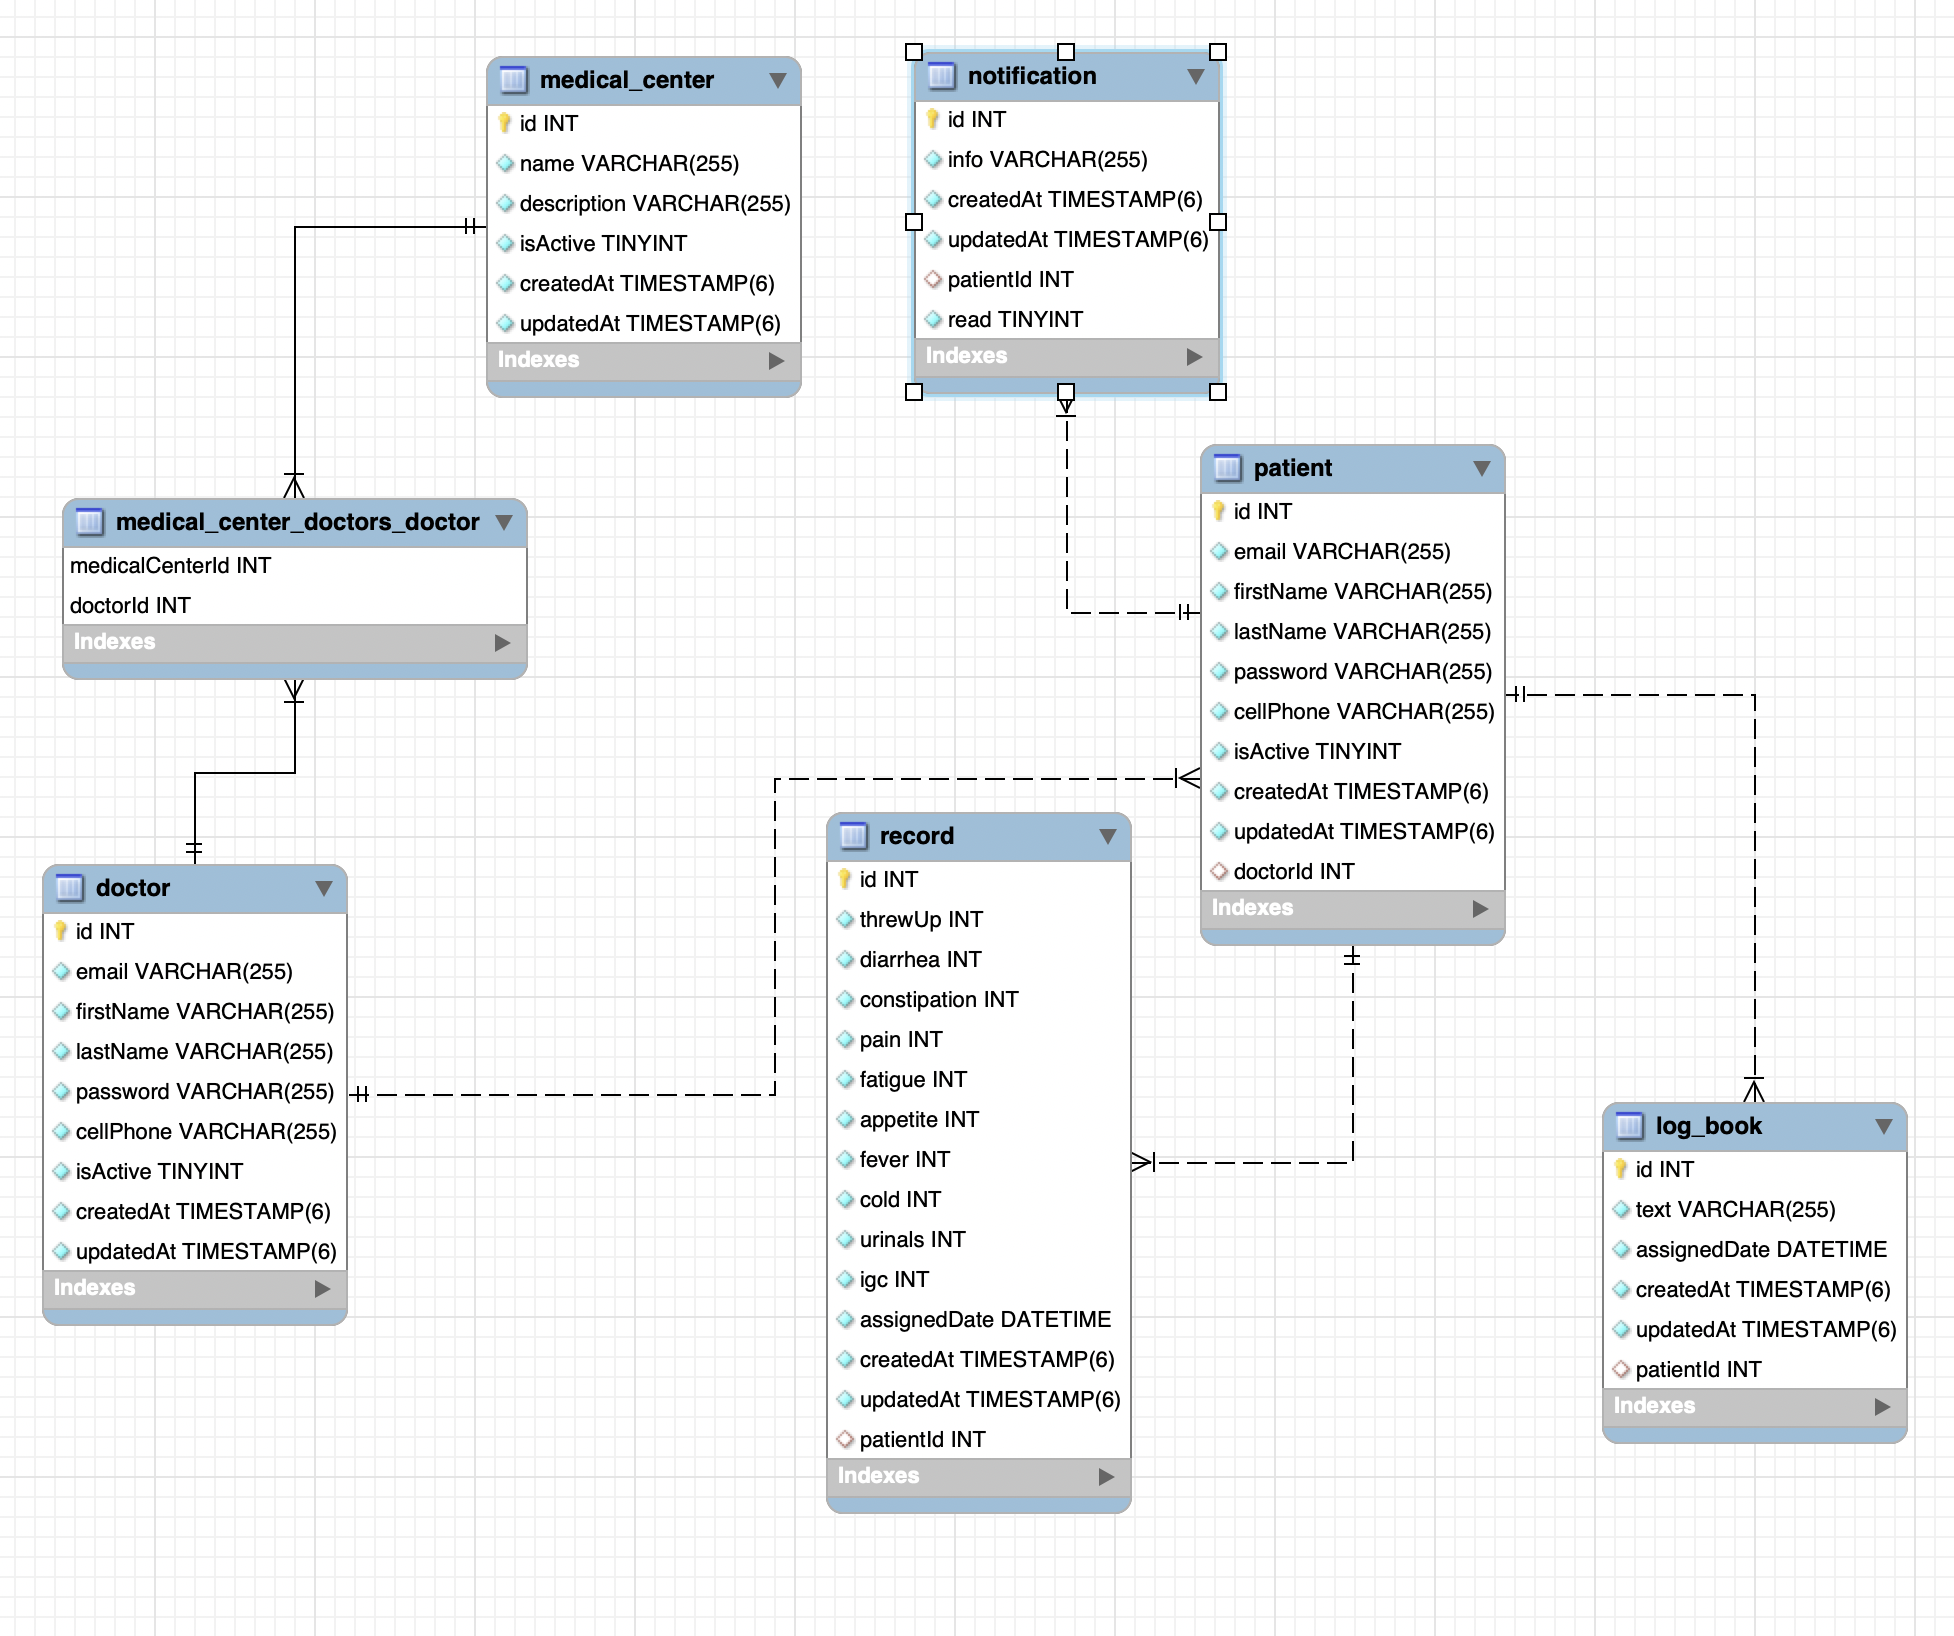
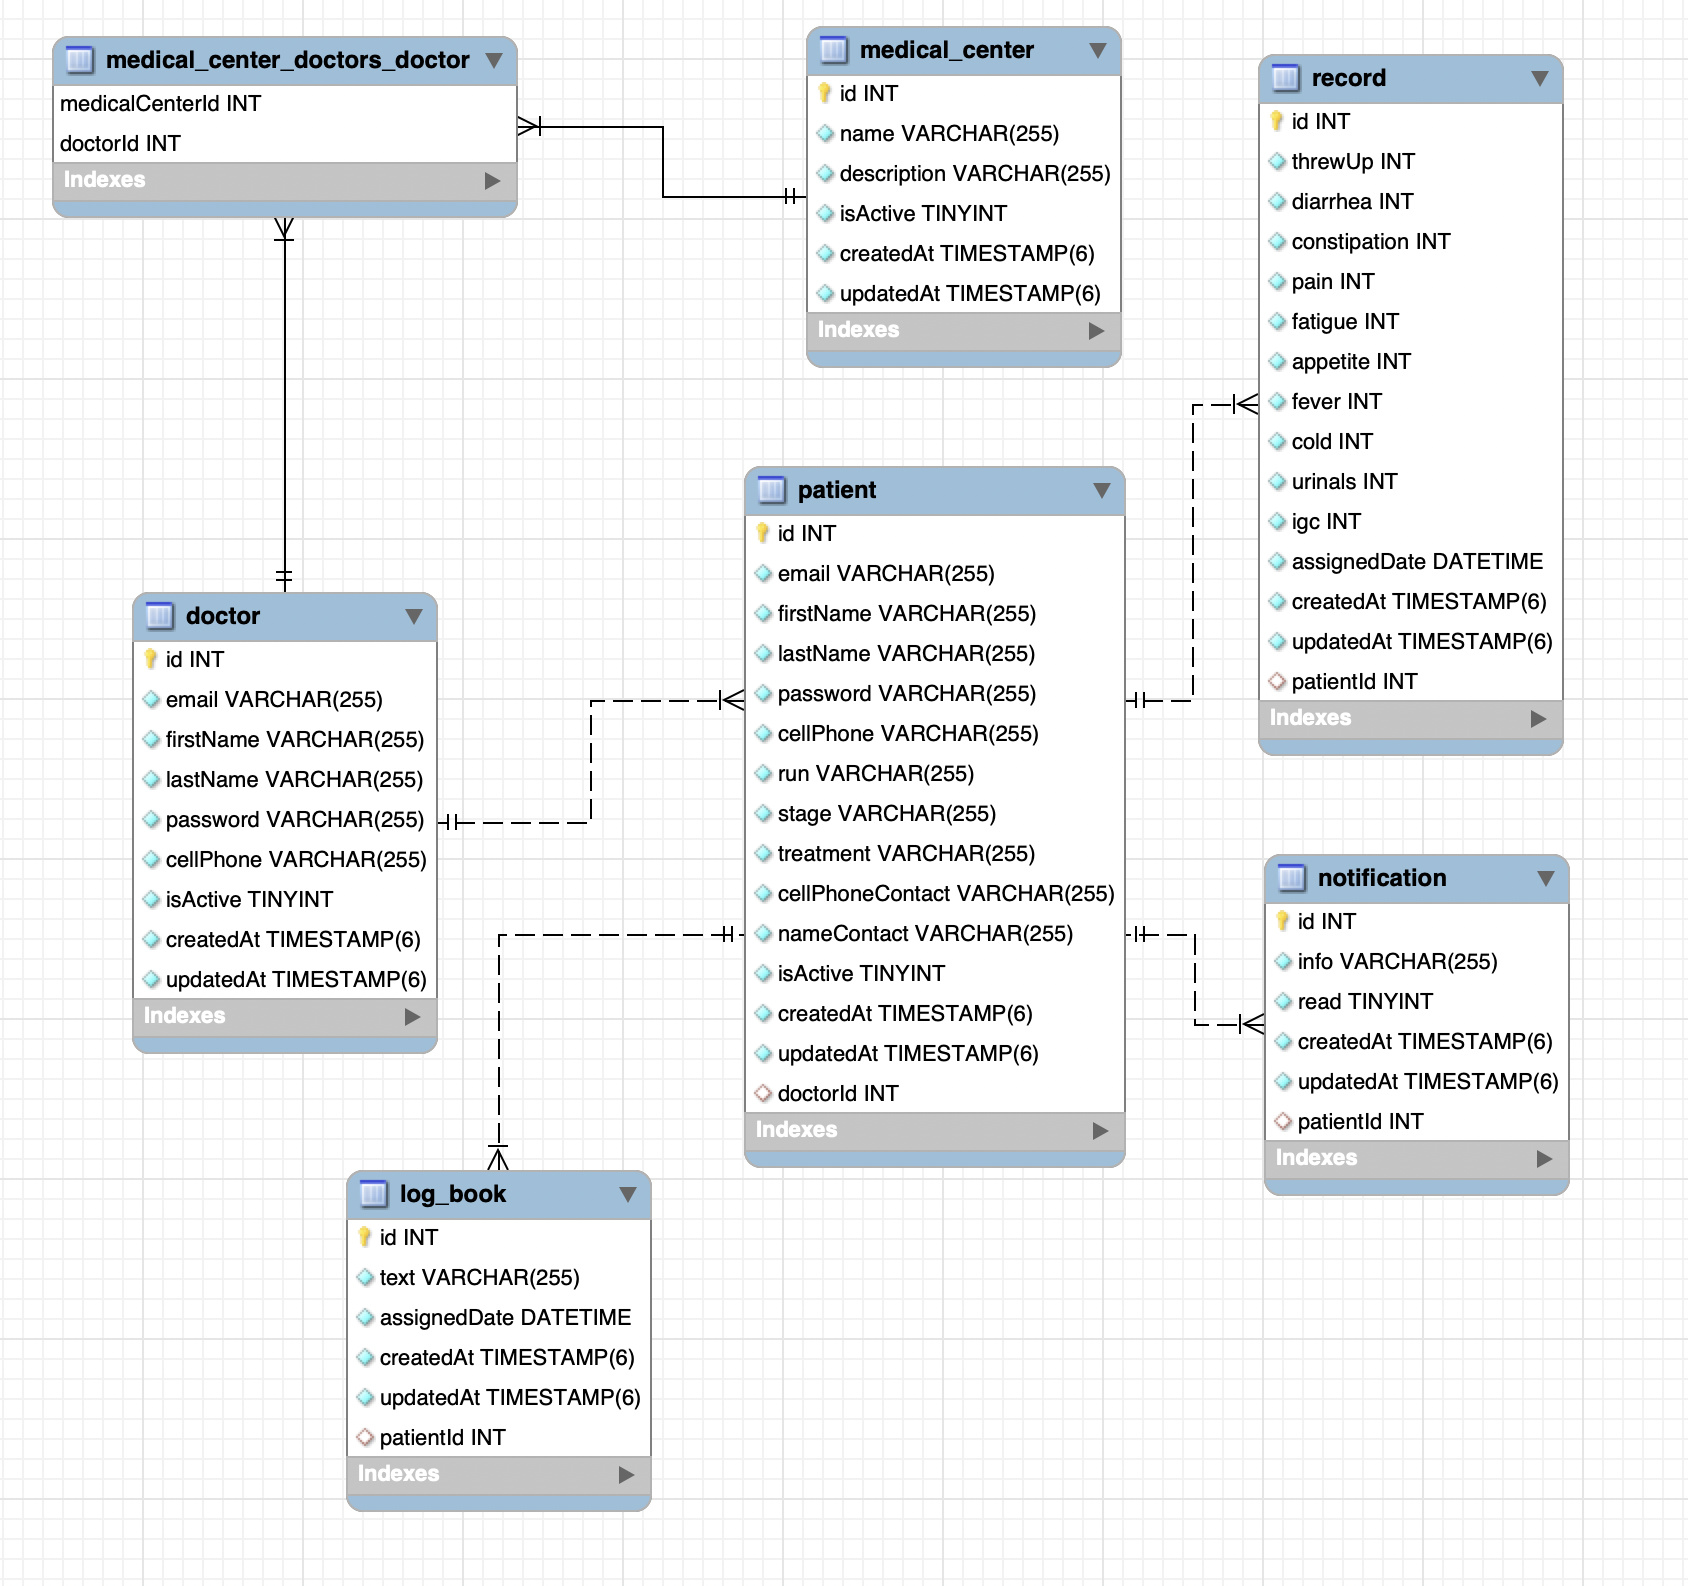
update model patient

diff --git a/src/patients/patient.dto.ts b/src/patients/patient.dto.ts
@@ -21,6 +21,21 @@ export class CreateUpdatePatientDto {
   password: string;
 
   @ApiProperty()
+  run: string;
+
+  @ApiProperty()
+  stage: string;
+
+  @ApiProperty()
+  treatment: string;
+
+  @ApiProperty()
+  cellPhoneContact: string;
+
+  @ApiProperty()
+  nameContact: string;
+
+  @ApiProperty()
   doctorId: number;
 }
 
@@ -40,6 +55,21 @@ export class CreateUpdatePatientAuthDto {
   @ApiProperty()
   password: string;
 
+  @ApiProperty()
+  run: string;
+
+  @ApiProperty()
+  stage: string;
+
+  @ApiProperty()
+  treatment: string;
+
+  @ApiProperty()
+  cellPhoneContact: string;
+
+  @ApiProperty()
+  nameContact: string;
+
   doctorId: number;
 }
 
@@ -58,6 +88,21 @@ export class PatientIncludeLogBookDto {
 
   @ApiProperty()
   password: string;
+
+  @ApiProperty()
+  run: string;
+
+  @ApiProperty()
+  stage: string;
+
+  @ApiProperty()
+  treatment: string;
+
+  @ApiProperty()
+  cellPhoneContact: string;
+
+  @ApiProperty()
+  nameContact: string;
 
   @ApiProperty({ type: [CreateUpdateLogBookDto] })
   logBooks: CreateUpdateLogBookDto[];
@@ -79,6 +124,21 @@ export class PatientIncludeDoctorDto {
   @ApiProperty()
   password: string;
 
+  @ApiProperty()
+  run: string;
+
+  @ApiProperty()
+  stage: string;
+
+  @ApiProperty()
+  treatment: string;
+
+  @ApiProperty()
+  cellPhoneContact: string;
+
+  @ApiProperty()
+  nameContact: string;
+
   @ApiProperty({ type: CreateUpdateDoctorDto })
   doctor: CreateUpdateDoctorDto;
 }
@@ -99,6 +159,21 @@ export class PatientIncludeRecordDto {
   @ApiProperty()
   password: string;
 
+  @ApiProperty()
+  run: string;
+
+  @ApiProperty()
+  stage: string;
+
+  @ApiProperty()
+  treatment: string;
+
+  @ApiProperty()
+  cellPhoneContact: string;
+
+  @ApiProperty()
+  nameContact: string;
+
   @ApiProperty({ type: [CreateUpdateRecordDto] })
   records: CreateUpdateRecordDto[];
 }
@@ -118,6 +193,21 @@ export class PatientIncludeNotificationDto {
 
   @ApiProperty()
   password: string;
+
+  @ApiProperty()
+  run: string;
+
+  @ApiProperty()
+  stage: string;
+
+  @ApiProperty()
+  treatment: string;
+
+  @ApiProperty()
+  cellPhoneContact: string;
+
+  @ApiProperty()
+  nameContact: string;
 
   @ApiProperty({ type: [CreateUpdateNotificationDto] })
   notifications: CreateUpdateNotificationDto[];

diff --git a/src/patients/patients.service.ts b/src/patients/patients.service.ts
@@ -1,4 +1,9 @@
-import { Injectable } from '@nestjs/common';
+import {
+  Injectable,
+  HttpException,
+  HttpStatus,
+  InternalServerErrorException,
+} from '@nestjs/common';
 import { InjectRepository } from '@nestjs/typeorm';
 import { Repository } from 'typeorm';
 import { Patient } from './patient.entity';
@@ -72,9 +77,22 @@ export class PatientsService {
   async create(
     patientData: CreateUpdatePatientDto,
   ): Promise<CreateUpdatePatientDto> {
-    const userHash = { ...patientData };
-    userHash.password = bcrypt.hashSync(userHash.password, this.saltRounds);
-    return this.patientRepository.save(userHash);
+    try {
+      const userHash = { ...patientData };
+      userHash.password = bcrypt.hashSync(userHash.password, this.saltRounds);
+      return this.patientRepository.save(userHash);
+    } catch (error) {
+      if (error.code === 'ER_DUP_ENTRY') {
+        throw new HttpException(
+          {
+            statusCode: HttpStatus.BAD_REQUEST,
+            message: error.code,
+          },
+          HttpStatus.BAD_REQUEST,
+        );
+      }
+      throw new InternalServerErrorException();
+    }
   }
 
   async update(

diff --git a/src/doctors/doctors.service.ts b/src/doctors/doctors.service.ts
@@ -1,4 +1,9 @@
-import { Injectable } from '@nestjs/common';
+import {
+  Injectable,
+  HttpException,
+  HttpStatus,
+  InternalServerErrorException,
+} from '@nestjs/common';
 import { InjectRepository } from '@nestjs/typeorm';
 import { Repository } from 'typeorm';
 import { Doctor } from './doctor.entity';
@@ -48,9 +53,22 @@ export class DoctorsService {
   async create(
     doctorData: CreateUpdateDoctorDto,
   ): Promise<CreateUpdateDoctorDto> {
-    const userHash = { ...doctorData };
-    userHash.password = bcrypt.hashSync(userHash.password, this.saltRounds);
-    return this.doctorRepository.save(userHash);
+    try {
+      const userHash = { ...doctorData };
+      userHash.password = bcrypt.hashSync(userHash.password, this.saltRounds);
+      return this.doctorRepository.save(userHash);
+    } catch (error) {
+      if (error.code === 'ER_DUP_ENTRY') {
+        throw new HttpException(
+          {
+            statusCode: HttpStatus.BAD_REQUEST,
+            message: error.code,
+          },
+          HttpStatus.BAD_REQUEST,
+        );
+      }
+      throw new InternalServerErrorException();
+    }
   }
 
   async update(

diff --git a/src/patients/patient.entity.ts b/src/patients/patient.entity.ts
@@ -32,6 +32,21 @@ export class Patient {
   @Column()
   cellPhone: string;
 
+  @Column({ unique: true })
+  run: string;
+
+  @Column()
+  stage: string;
+
+  @Column()
+  treatment: string;
+
+  @Column()
+  cellPhoneContact: string;
+
+  @Column()
+  nameContact: string;
+
   @Column({ default: true })
   isActive: boolean;
 
